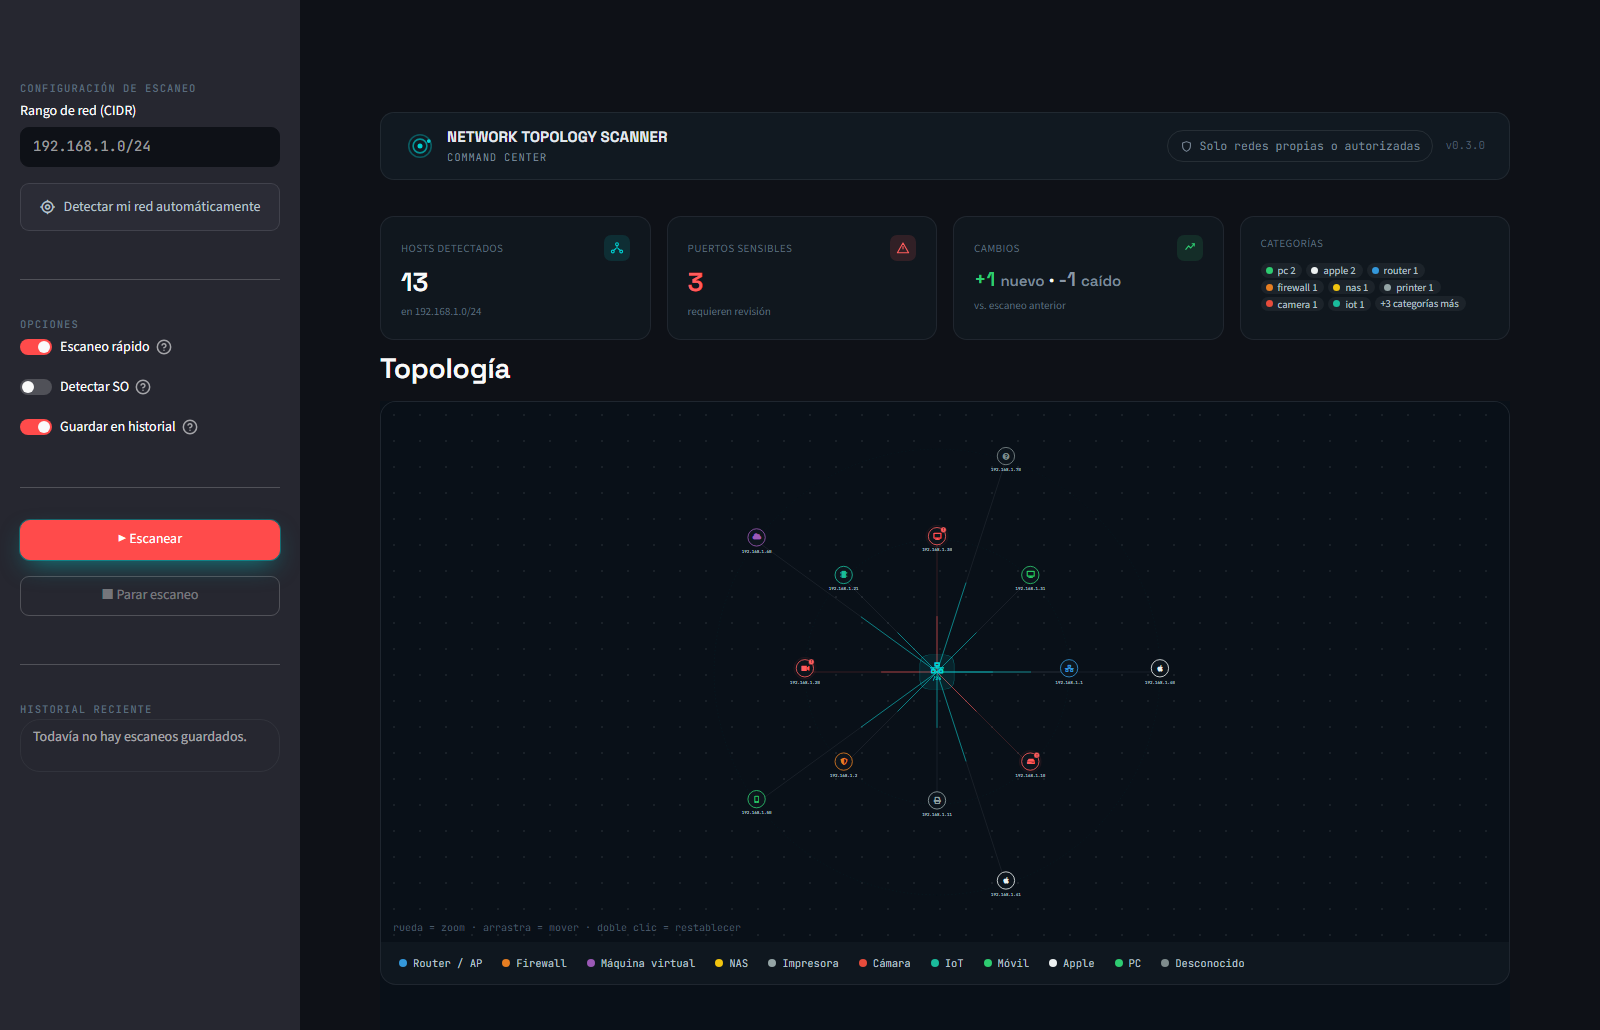
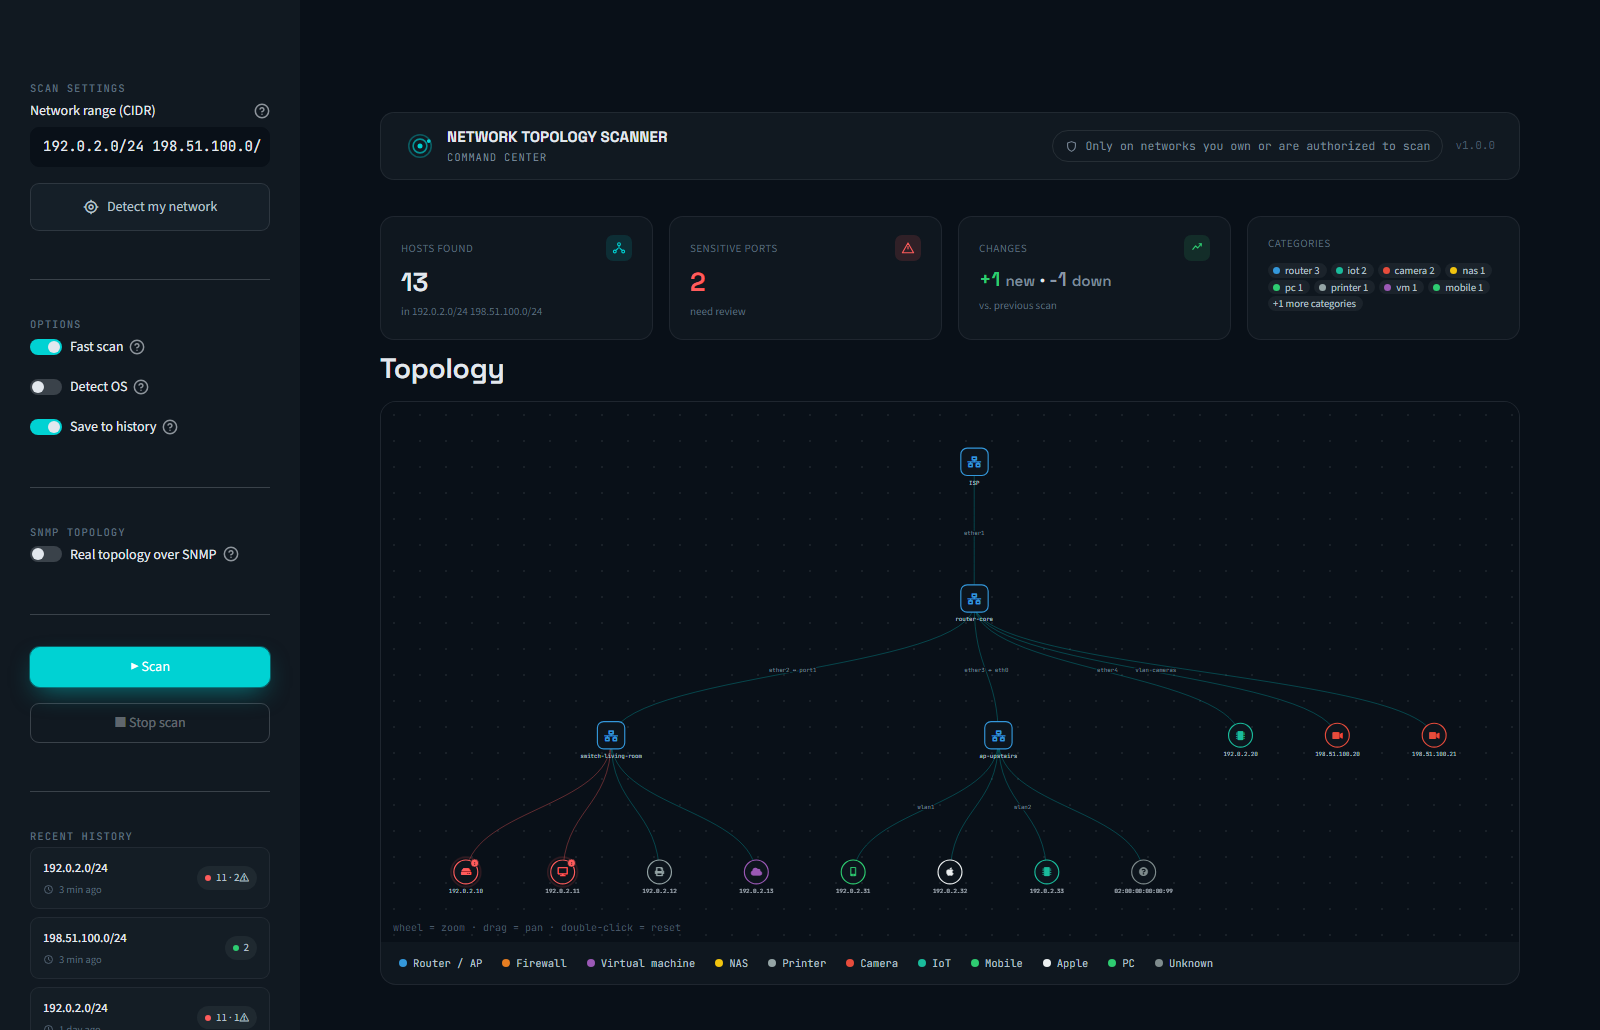
docs: capturas del README en inglés, regenerables con scripts/demo_web.py
Hostnames de la demo en inglés y un script nuevo que abre la web con un
escaneo inventado ya cargado (los datos de demo_arbol.py más un diff),
para poder regenerar las capturas del dashboard y del inventario, que
antes se hicieron a mano. La demo sustituye el historial reciente por
uno inventado: el historial.db del directorio de trabajo es el de la
red real de quien la lance.

diff --git a/scripts/demo_arbol.py b/scripts/demo_arbol.py
@@ -52,30 +52,30 @@ def datos_demo() -> tuple[dict, list[str], dict]:
     resultados = {
         # Equipos de red (nmap también los ve)
         "192.0.2.1": _host("router-core", "02:00:00:00:00:01", "Routerboard.com", [22, 53, 80, 8291]),
-        "192.0.2.2": _host("switch-salon", "02:00:00:00:00:02", "Routerboard.com", [80]),
-        "192.0.2.3": _host("ap-planta-alta", "02:00:00:00:00:03", "Ubiquiti Networks", [22, 443]),
+        "192.0.2.2": _host("switch-living-room", "02:00:00:00:00:02", "Routerboard.com", [80]),
+        "192.0.2.3": _host("ap-upstairs", "02:00:00:00:00:03", "Ubiquiti Networks", [22, 443]),
         # Detrás del switch
         "192.0.2.10": _host("nas", "02:00:00:00:00:10", "Synology Incorporated", [22, 80, 443, 445]),
-        "192.0.2.11": _host("pc-oficina", "02:00:00:00:00:11", "Dell Inc.", [3389]),
-        "192.0.2.12": _host("impresora", "02:00:00:00:00:12", "Brother Industries", [80, 631]),
+        "192.0.2.11": _host("office-pc", "02:00:00:00:00:11", "Dell Inc.", [3389]),
+        "192.0.2.12": _host("printer", "02:00:00:00:00:12", "Brother Industries", [80, 631]),
         "192.0.2.13": _host("vm-docker", "02:00:00:00:00:13", "QEMU virtual NIC", [22, 8080]),
         # Directo al router
         "192.0.2.20": _host("raspberrypi", "02:00:00:00:00:20", "Raspberry Pi Trading", [22, 53, 80]),
         # WiFi del AP
         "192.0.2.31": _host("galaxy-s24", "02:00:00:00:00:31", "Samsung Electronics", []),
         "192.0.2.32": _host("macbook", "02:00:00:00:00:32", "Apple, Inc.", [22]),
-        "192.0.2.33": _host("enchufe-salon", "02:00:00:00:00:33", "Espressif Inc.", [80]),
+        "192.0.2.33": _host("smart-plug", "02:00:00:00:00:33", "Espressif Inc.", [80]),
         # VLAN de cámaras
-        "198.51.100.20": _host("camara-entrada", "02:00:00:00:01:20", "Hangzhou Hikvision Digital", [80, 554]),
-        "198.51.100.21": _host("camara-jardin", "02:00:00:00:01:21", "Reolink Innovation", [80, 554]),
+        "198.51.100.20": _host("cam-front-door", "02:00:00:00:01:20", "Hangzhou Hikvision Digital", [80, 554]),
+        "198.51.100.21": _host("cam-garden", "02:00:00:00:01:21", "Reolink Innovation", [80, 554]),
     }
 
     topologia = {
         "equipos": {
             "203.0.113.1": _equipo("ISP", upstream=True),
             "192.0.2.1": _equipo("router-core", "MikroTik", "RouterOS 7.16", "02:00:00:00:00:01", consultado=True),
-            "192.0.2.2": _equipo("switch-salon", "MikroTik", "SwOS 2.17", "02:00:00:00:00:02"),
-            "192.0.2.3": _equipo("ap-planta-alta", "Ubiquiti", "UniFi 6.6", "02:00:00:00:00:03", consultado=True),
+            "192.0.2.2": _equipo("switch-living-room", "MikroTik", "SwOS 2.17", "02:00:00:00:00:02"),
+            "192.0.2.3": _equipo("ap-upstairs", "Ubiquiti", "UniFi 6.6", "02:00:00:00:00:03", consultado=True),
         },
         "enlaces": [
             {"padre": "203.0.113.1", "hijo": "192.0.2.1", "interfaz_padre": None, "interfaz_hijo": "ether1"},
@@ -95,8 +95,8 @@ def datos_demo() -> tuple[dict, list[str], dict]:
             "02:00:00:00:00:33": {"ip": "192.0.2.33", "padre": "192.0.2.3", "interfaz": "wlan2"},
             # Visto solo por SNMP (nmap no lo detectó)
             "02:00:00:00:00:99": {"ip": None, "padre": "192.0.2.3", "interfaz": "wlan2"},
-            "02:00:00:00:01:20": {"ip": "198.51.100.20", "padre": "192.0.2.1", "interfaz": "vlan-camaras"},
-            "02:00:00:00:01:21": {"ip": "198.51.100.21", "padre": "192.0.2.1", "interfaz": "vlan-camaras"},
+            "02:00:00:00:01:20": {"ip": "198.51.100.20", "padre": "192.0.2.1", "interfaz": "vlan-cameras"},
+            "02:00:00:00:01:21": {"ip": "198.51.100.21", "padre": "192.0.2.1", "interfaz": "vlan-cameras"},
         },
     }
     return resultados, RANGOS, topologia

diff --git a/tests/test_demo_web.py b/tests/test_demo_web.py
@@ -1,0 +1,64 @@
+"""
+Tests de scripts/demo_web.py, que abre la interfaz web con un escaneo
+inventado ya cargado para hacer las capturas del README. Igual que
+demo_arbol.py, no se instala: se carga por ruta. Reutiliza los datos de
+demo_arbol.py, así que la comprobación de que todo es inventado ya está en
+test_demo_arbol.py.
+"""
+
+import importlib.util
+from pathlib import Path
+
+import pytest
+
+pytest.importorskip("streamlit", reason='pip install "topology-scanner[web]" para probar la interfaz web')
+
+CARPETA_SCRIPTS = Path(__file__).resolve().parents[1] / "scripts"
+
+
+def _cargar_demo_web(monkeypatch):
+    monkeypatch.syspath_prepend(str(CARPETA_SCRIPTS))   # demo_web importa demo_arbol
+    spec = importlib.util.spec_from_file_location("demo_web", CARPETA_SCRIPTS / "demo_web.py")
+    modulo = importlib.util.module_from_spec(spec)
+    spec.loader.exec_module(modulo)
+    return modulo
+
+
+def test_el_resultado_de_demo_trae_cambios_respecto_al_escaneo_anterior(monkeypatch):
+    resultado = _cargar_demo_web(monkeypatch).resultado_demo()
+
+    assert set(resultado) == {"resultados", "diff", "rango", "rangos", "topologia", "avisos_snmp"}
+    diff = resultado["diff"]
+    assert diff["primera_vez"] is False
+    assert diff["hosts_nuevos"] and diff["hosts_caidos"]
+    assert any(c.get("nuevos_sensibles") for c in diff["puertos_cambiados"].values())
+    assert set(diff["hosts_nuevos"]) <= set(resultado["resultados"])
+    assert not set(diff["hosts_caidos"]) & set(resultado["resultados"])
+
+
+def test_la_web_de_demo_arranca_con_el_resultado_cargado(monkeypatch):
+    from streamlit.testing.v1 import AppTest
+
+    monkeypatch.syspath_prepend(str(CARPETA_SCRIPTS))
+    at = AppTest.from_file(str(CARPETA_SCRIPTS / "demo_web.py"))
+    at.run()
+
+    assert not at.exception
+    assert [s.value for s in at.main.subheader] == ["Topology", "Inventory", "Changes"]
+
+
+def test_la_web_de_demo_no_lee_el_historial_real(monkeypatch):
+    """El historial.db del directorio de trabajo es el de la red real de
+    quien lance la demo: en una captura pública solo pueden salir rangos
+    inventados."""
+    from streamlit.testing.v1 import AppTest
+
+    monkeypatch.syspath_prepend(str(CARPETA_SCRIPTS))
+    monkeypatch.setattr("topology_scanner.webapp.listar_escaneos_recientes",
+                        lambda *a, **k: pytest.fail("la demo ha leído el historial real"))
+    at = AppTest.from_file(str(CARPETA_SCRIPTS / "demo_web.py"))
+    at.run()
+
+    assert not at.exception
+    historial = next(md.value for md in at.sidebar.markdown if "history-list" in md.value)
+    assert "192.0.2.0/24" in historial and "198.51.100.0/24" in historial

diff --git a/scripts/demo_web.py b/scripts/demo_web.py
@@ -1,0 +1,63 @@
+"""
+demo_web.py
+-----------
+Abre la interfaz web con un escaneo inventado ya cargado, para las capturas
+del README (docs/screenshots/dashboard.png e inventario.png). No escanea
+nada: reutiliza los datos de demo_arbol.py, les añade un diff respecto a un
+"escaneo anterior" (para que salga el panel de cambios) y los deja en
+session_state antes de llamar a webapp.main(), como si el escaneo acabara
+de terminar.
+
+Uso:
+    streamlit run scripts/demo_web.py
+"""
+
+from datetime import datetime, timedelta
+
+import streamlit as st
+from demo_arbol import datos_demo
+
+from topology_scanner import webapp
+from topology_scanner.classifier import PUERTOS_SENSIBLES
+
+# SO como lo daría --os-detection, para que la columna del inventario no salga toda "unknown"
+SO_DEMO = {"192.0.2.1": "MikroTik RouterOS 7.x", "192.0.2.10": "Synology DSM 7", "192.0.2.11": "Windows 11",
+           "192.0.2.13": "Linux 6.x", "192.0.2.20": "Linux 6.x", "192.0.2.32": "macOS"}
+
+
+def resultado_demo() -> dict:
+    """Mismo formato que webapp._finalizar_resultados."""
+    resultados, rangos, topologia = datos_demo()
+    for ip, so in SO_DEMO.items():
+        resultados[ip]["so"] = so
+    diff = {
+        "primera_vez": False,
+        "hosts_nuevos": ["192.0.2.33"],
+        "hosts_caidos": ["192.0.2.40"],
+        "puertos_cambiados": {
+            "192.0.2.11": {"nuevos": [3389], "cerrados": [],
+                           "nuevos_sensibles": [{"puerto": 3389, "motivo": PUERTOS_SENSIBLES[3389]}]},
+            "192.0.2.13": {"nuevos": [8080], "cerrados": [22], "nuevos_sensibles": []},
+        },
+    }
+    return {"resultados": resultados, "diff": diff, "rango": " ".join(rangos), "rangos": rangos,
+            "topologia": topologia, "avisos_snmp": []}
+
+
+def historial_demo(*_args, **_kwargs) -> list:
+    """Sustituye a history.listar_escaneos_recientes: el historial.db del
+    directorio de trabajo es el de la red real de quien lance la demo."""
+    def hace(**delta) -> str:
+        return (datetime.now() - timedelta(**delta)).isoformat()
+
+    return [
+        {"rango": "192.0.2.0/24", "fecha": hace(minutes=3), "total_hosts": 11, "alertas": 2},
+        {"rango": "198.51.100.0/24", "fecha": hace(minutes=3), "total_hosts": 2, "alertas": 0},
+        {"rango": "192.0.2.0/24", "fecha": hace(days=1), "total_hosts": 11, "alertas": 1},
+    ]
+
+
+webapp.listar_escaneos_recientes = historial_demo
+st.session_state.setdefault("rango_detectado", "192.0.2.0/24 198.51.100.0/24")
+st.session_state.setdefault("resultado", resultado_demo())
+webapp.main()

diff --git a/tests/test_demo_arbol.py b/tests/test_demo_arbol.py
@@ -56,3 +56,13 @@ def test_generar_escribe_el_html(tmp_path):
     salida = tmp_path / "arbol.html"
     _cargar_demo().generar(str(salida))
     assert "vis-network" in salida.read_text(encoding="utf-8")
+
+
+def test_los_nombres_de_la_demo_estan_en_ingles():
+    """Salen en las capturas del README, que lee un público anglohablante."""
+    resultados, _, topologia = _cargar_demo().datos_demo()
+    nombres = [d["hostname"] for d in resultados.values()] + [e["nombre"] for e in topologia["equipos"].values()]
+    nombres += [u["interfaz"] or "" for u in topologia["ubicaciones"].values()]
+
+    for palabra in ("salon", "planta", "oficina", "impresora", "enchufe", "camara", "jardin", "entrada"):
+        assert not any(palabra in nombre for nombre in nombres), palabra

diff --git a/docs/decisiones.md b/docs/decisiones.md
@@ -427,3 +427,16 @@ contexto completo.
     `Network <rango>`. Es seguro porque el historial guarda la categoría
     pero nunca la vuelve a leer para comparar. Las columnas del CSV
     también cambian, y queda avisado en el CHANGELOG.
+- Capturas de la web del README (`dashboard.png`, `inventario.png`): salen
+  de `scripts/demo_web.py`, que reutiliza los datos de `demo_arbol.py`, les
+  añade un diff inventado y los deja en `session_state` antes de llamar a
+  `webapp.main()`. Antes se hicieron a mano y no se podían regenerar.
+  **La demo sustituye `listar_escaneos_recientes`**: el `historial.db` del
+  directorio de trabajo es el de la red real de quien la lance, y en la
+  primera captura en inglés salieron rangos reales en "Recent history"
+  (se vio antes de publicar). Lo cubre `tests/test_demo_web.py`. El
+  `--screenshot` de Chrome dispara antes de que Streamlit pinte (el
+  websocket no avanza con `--virtual-time-budget`), así que se captura por
+  DevTools Protocol esperando a que la página muestre "Changes", con una
+  ventana de 1600x2900, y se recorta: dashboard `(0, 0, 1600, 1030)`,
+  inventario `(300, 1035, 1600, 2400)`.

diff --git a/CHANGELOG.md b/CHANGELOG.md
@@ -23,6 +23,7 @@ follows [Semantic Versioning](https://semver.org/).
   each range (`Network <range>`, was `Red <range>`).
 - The web interface is in English: sidebar, results panels, scan progress
   and messages. The downloaded inventory is now `inventory.csv`.
+- README screenshots regenerated in English, with fictional data only.
 - The default HTML output is now `network_topology.html` (was
   `topologia_red.html`). The history database keeps its name
   (`historial.db`) so new scans still compare against the old ones.

diff --git a/CLAUDE.md b/CLAUDE.md
@@ -77,6 +77,7 @@ src/topology_scanner/
 └── webapp.py       # interfaz Streamlit (opcional): mismo pipeline, con escaneo cancelable
 tests/               # un test_<modulo>.py por módulo
 scripts/demo_arbol.py  # árbol SNMP con datos inventados para la captura del README (no se instala)
+scripts/demo_web.py    # web con un escaneo inventado cargado, para las capturas del README (streamlit run)
 ```
 
 **Principio de diseño**: cada módulo no sabe nada de los demás salvo lo
